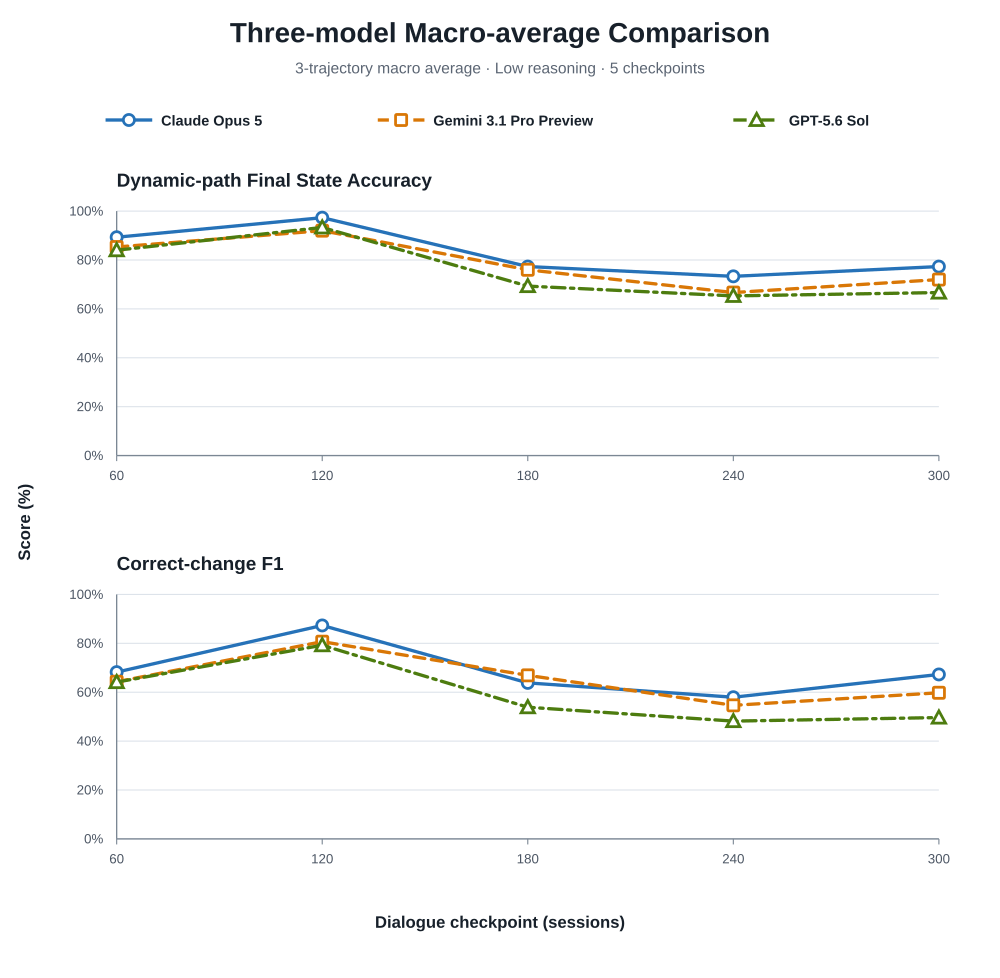
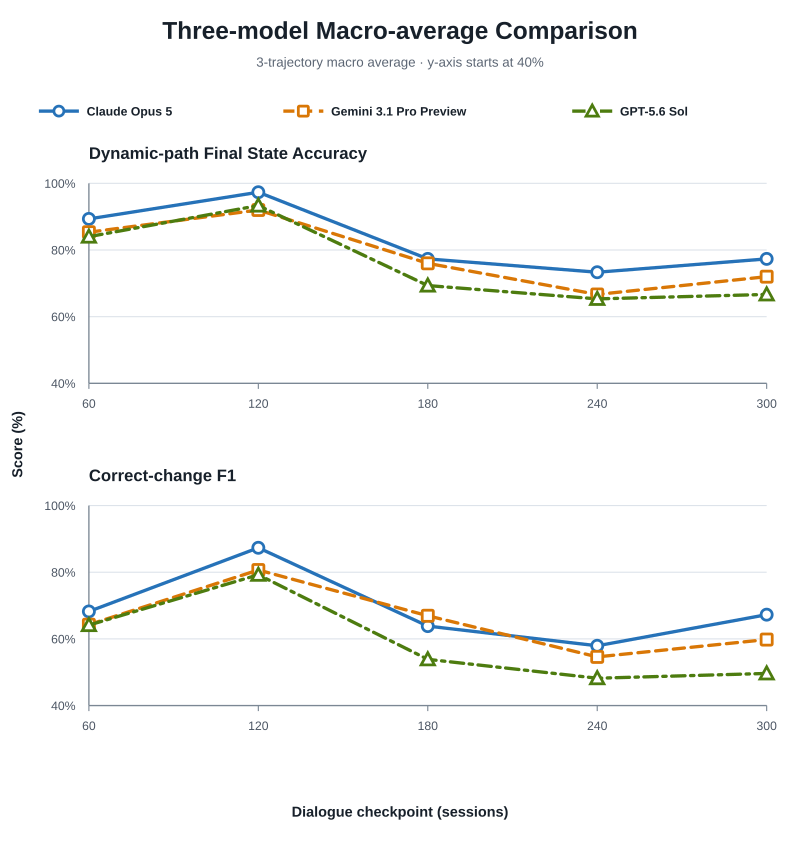
docs: tighten model average comparison scale

diff --git a/experiment/scripts/plot_stage2_2_trajectory_average.py b/experiment/scripts/plot_stage2_2_trajectory_average.py
@@ -388,9 +388,10 @@ def build_macro_model_comparison_svg(
     scores: dict[str, dict[str, dict[int, dict[str, float]]]],
 ) -> str:
     """Render a compact two-panel comparison of model macro averages."""
-    width, height = 900, 880
-    left, right = 105, 845
-    panel_bounds = ((190, 410), (535, 755))
+    width, height = 720, 780
+    left, right = 80, 690
+    panel_bounds = ((165, 345), (455, 635))
+    y_min = 40.0
 
     def x_pos(index: int) -> float:
         return left + index * (right - left) / (len(CHECKPOINTS) - 1)
@@ -404,26 +405,26 @@ def build_macro_model_comparison_svg(
         ),
         "<style>",
         "text { font-family: Arial, 'DejaVu Sans', sans-serif; fill: #17202A; }",
-        ".title { font-size: 25px; font-weight: 700; }",
-        ".subtitle { font-size: 14px; fill: #5B6573; }",
-        ".panel-title { font-size: 17px; font-weight: 700; }",
-        ".axis-label { font-size: 15px; font-weight: 600; }",
-        ".tick { font-size: 12px; fill: #4B5563; }",
-        ".legend { font-size: 13px; font-weight: 600; }",
+        ".title { font-size: 22px; font-weight: 700; }",
+        ".subtitle { font-size: 12px; fill: #5B6573; }",
+        ".panel-title { font-size: 15px; font-weight: 700; }",
+        ".axis-label { font-size: 13px; font-weight: 600; }",
+        ".tick { font-size: 11px; fill: #4B5563; }",
+        ".legend { font-size: 11px; font-weight: 600; }",
         "</style>",
-        '<rect width="900" height="880" fill="#FFFFFF"/>',
+        '<rect width="720" height="780" fill="#FFFFFF"/>',
         (
-            '<text x="450" y="38" text-anchor="middle" class="title">'
+            '<text x="360" y="35" text-anchor="middle" class="title">'
             "Three-model Macro-average Comparison</text>"
         ),
         (
-            '<text x="450" y="66" text-anchor="middle" class="subtitle">'
-            "3-trajectory macro average · Low reasoning · 5 checkpoints"
+            '<text x="360" y="60" text-anchor="middle" class="subtitle">'
+            "3-trajectory macro average · y-axis starts at 40%"
             "</text>"
         ),
     ]
 
-    legend_x = (95, 340, 660)
+    legend_x = (35, 255, 515)
     for x, model in zip(legend_x, MODEL_SPECS, strict=True):
         dash = (
             f' stroke-dasharray="{model["dash"]}"'
@@ -431,20 +432,20 @@ def build_macro_model_comparison_svg(
             else ""
         )
         parts.append(
-            f'<line x1="{x}" y1="108" x2="{x + 42}" y2="108" '
+            f'<line x1="{x}" y1="100" x2="{x + 36}" y2="100" '
             f'stroke="{model["color"]}" stroke-width="3"{dash}/>'
         )
         parts.append(
             _marker_svg(
                 str(model["marker"]),
-                x + 21,
-                108,
+                x + 18,
+                100,
                 str(model["color"]),
-                size=5,
+                size=4.5,
             )
         )
         parts.append(
-            f'<text x="{x + 50}" y="113" class="legend">'
+            f'<text x="{x + 43}" y="104" class="legend">'
             f'{html.escape(str(model["label"]))}</text>'
         )
 
@@ -452,13 +453,15 @@ def build_macro_model_comparison_svg(
         top, bottom = panel_bounds[panel_index]
 
         def y_pos(score: float) -> float:
-            return bottom - score / 100.0 * (bottom - top)
+            return bottom - (score - y_min) / (100.0 - y_min) * (
+                bottom - top
+            )
 
         parts.append(
             f'<text x="{left}" y="{top - 22}" class="panel-title">'
             f"{html.escape(title.removesuffix(' by Checkpoint'))}</text>"
         )
-        for tick in range(0, 101, 20):
+        for tick in range(40, 101, 20):
             y = y_pos(float(tick))
             parts.extend(
                 [
@@ -538,12 +541,12 @@ def build_macro_model_comparison_svg(
     parts.extend(
         [
             (
-                '<text x="450" y="835" text-anchor="middle" '
+                '<text x="360" y="735" text-anchor="middle" '
                 'class="axis-label">Dialogue checkpoint (sessions)</text>'
             ),
             (
-                '<text x="27" y="470" text-anchor="middle" '
-                'class="axis-label" transform="rotate(-90 27 470)">'
+                '<text x="20" y="400" text-anchor="middle" '
+                'class="axis-label" transform="rotate(-90 20 400)">'
                 "Score (%)</text>"
             ),
             "</svg>",
@@ -683,7 +686,7 @@ def main() -> None:
     generated.extend(
         [
             comparison_svg,
-            render(comparison_svg, "png", png_width=1000),
+            render(comparison_svg, "png", png_width=800),
             render(comparison_svg, "pdf"),
         ]
     )
